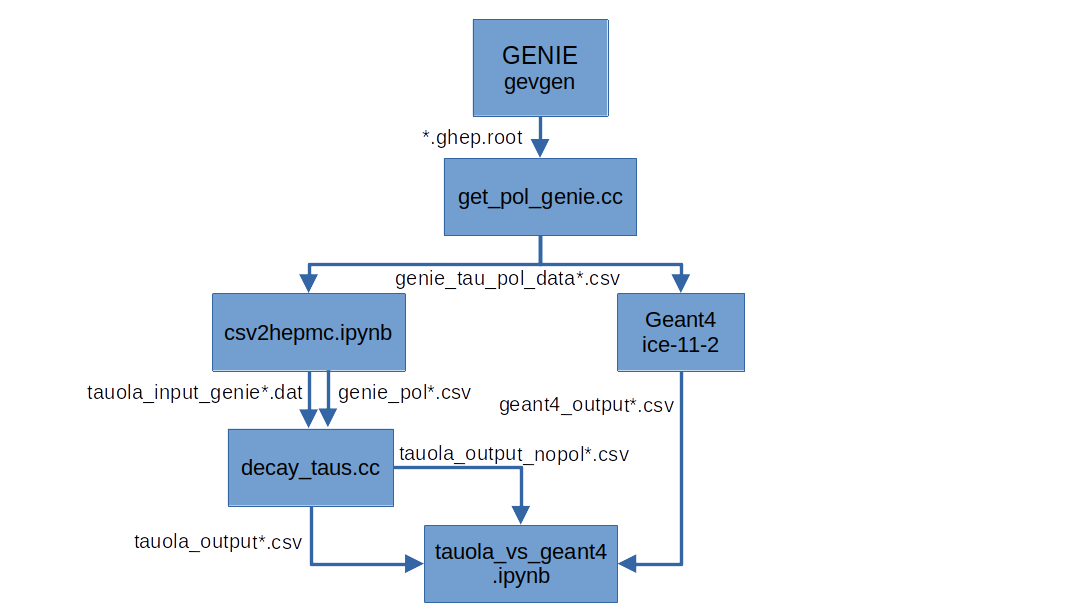
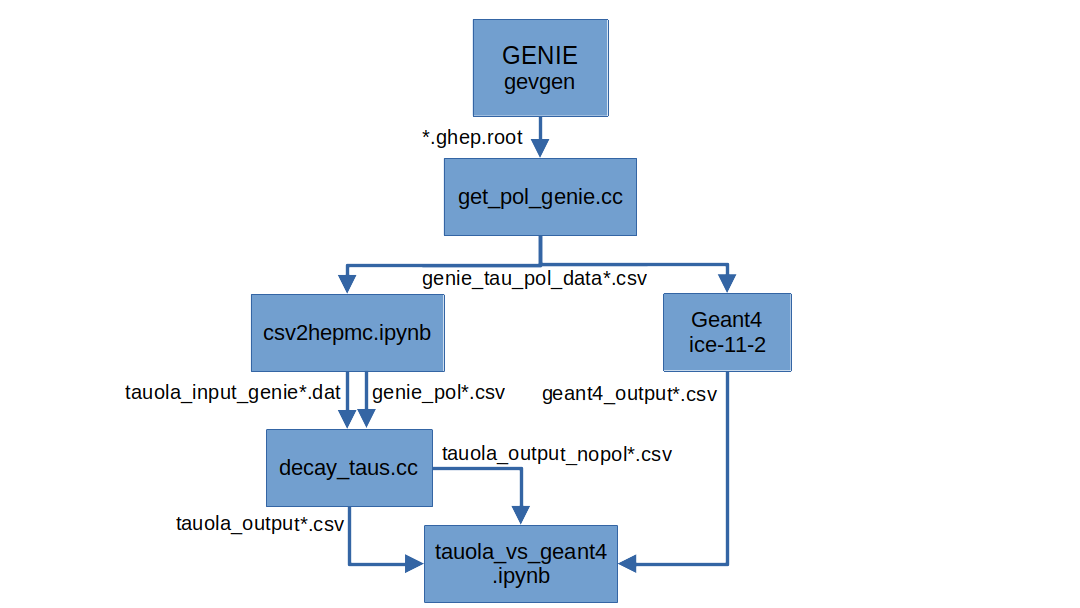
Update README to make it easier to read

Changed region(s): [[0.0611, 0.4062, 0.7333, 0.9375], [0.3972, 0.2188, 0.4889, 0.25]]

diff --git a/icecube-tau-decays/README.md b/icecube-tau-decays/README.md
@@ -2,4 +2,8 @@
 This folder contains most of the code necessary for generating and analyzing events for tau decays from IceCube and Tauola, where the tau lepton has been created from a tau neutrino interacting with ice. The code is written in C++ and Python.
 
 ## Workflow
+The programs used in this directory should be executed in the following order:
+
 ![workflow](workflow.png)
+
+The arrows show the data flow and the file names of the input/output files.
